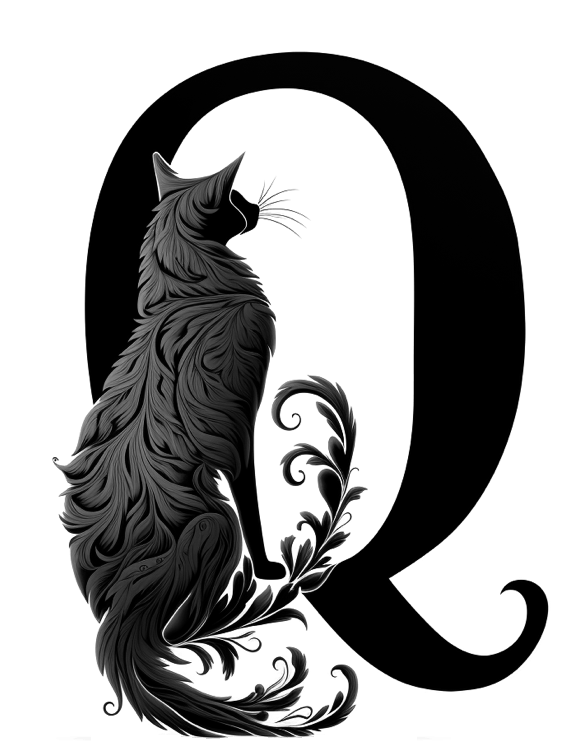
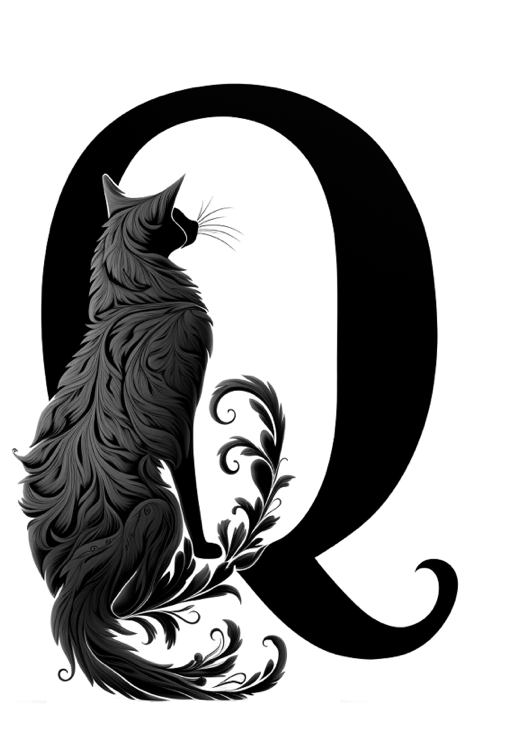
Adjustments to dropcats (general, Q light)

diff --git a/js/head-GENERATED.js b/js/head-GENERATED.js
@@ -3716,24 +3716,24 @@ GW.assetVersions = {
 	"/static/font/drop-cap/dropcat/light/Q-1-small-2x.png": "1698157852",
 	"/static/font/drop-cap/dropcat/light/Q-10-small-1x.png": "1698162541",
 	"/static/font/drop-cap/dropcat/light/Q-10-small-2x.png": "1698162541",
-	"/static/font/drop-cap/dropcat/light/Q-11-small-1x.png": "1698162542",
-	"/static/font/drop-cap/dropcat/light/Q-11-small-2x.png": "1698162541",
+	"/static/font/drop-cap/dropcat/light/Q-11-small-1x.png": "1698262535",
+	"/static/font/drop-cap/dropcat/light/Q-11-small-2x.png": "1698262535",
 	"/static/font/drop-cap/dropcat/light/Q-12-small-1x.png": "1698162542",
 	"/static/font/drop-cap/dropcat/light/Q-12-small-2x.png": "1698162542",
-	"/static/font/drop-cap/dropcat/light/Q-2-small-1x.png": "1698162542",
-	"/static/font/drop-cap/dropcat/light/Q-2-small-2x.png": "1698162542",
-	"/static/font/drop-cap/dropcat/light/Q-3-small-1x.png": "1698162540",
-	"/static/font/drop-cap/dropcat/light/Q-3-small-2x.png": "1698162542",
+	"/static/font/drop-cap/dropcat/light/Q-2-small-1x.png": "1698263646",
+	"/static/font/drop-cap/dropcat/light/Q-2-small-2x.png": "1698263646",
+	"/static/font/drop-cap/dropcat/light/Q-3-small-1x.png": "1698262535",
+	"/static/font/drop-cap/dropcat/light/Q-3-small-2x.png": "1698262535",
 	"/static/font/drop-cap/dropcat/light/Q-4-small-1x.png": "1698162541",
 	"/static/font/drop-cap/dropcat/light/Q-4-small-2x.png": "1698162541",
-	"/static/font/drop-cap/dropcat/light/Q-5-small-1x.png": "1698162541",
-	"/static/font/drop-cap/dropcat/light/Q-5-small-2x.png": "1698162541",
-	"/static/font/drop-cap/dropcat/light/Q-6-small-1x.png": "1698162782",
-	"/static/font/drop-cap/dropcat/light/Q-6-small-2x.png": "1698162782",
-	"/static/font/drop-cap/dropcat/light/Q-7-small-1x.png": "1698162541",
-	"/static/font/drop-cap/dropcat/light/Q-7-small-2x.png": "1698162541",
-	"/static/font/drop-cap/dropcat/light/Q-8-small-1x.png": "1698162541",
-	"/static/font/drop-cap/dropcat/light/Q-8-small-2x.png": "1698162541",
+	"/static/font/drop-cap/dropcat/light/Q-5-small-1x.png": "1698262535",
+	"/static/font/drop-cap/dropcat/light/Q-5-small-2x.png": "1698262535",
+	"/static/font/drop-cap/dropcat/light/Q-6-small-1x.png": "1698262535",
+	"/static/font/drop-cap/dropcat/light/Q-6-small-2x.png": "1698262535",
+	"/static/font/drop-cap/dropcat/light/Q-7-small-1x.png": "1698263646",
+	"/static/font/drop-cap/dropcat/light/Q-7-small-2x.png": "1698263646",
+	"/static/font/drop-cap/dropcat/light/Q-8-small-1x.png": "1698262535",
+	"/static/font/drop-cap/dropcat/light/Q-8-small-2x.png": "1698262535",
 	"/static/font/drop-cap/dropcat/light/Q-9-small-1x.png": "1698162541",
 	"/static/font/drop-cap/dropcat/light/Q-9-small-2x.png": "1698162541",
 	"/static/font/drop-cap/dropcat/light/T-1-small-1x.png": "1698156177",

diff --git a/js/asset-versions-GENERATED.js b/js/asset-versions-GENERATED.js
@@ -150,24 +150,24 @@ GW.assetVersions = {
 	"/static/font/drop-cap/dropcat/light/Q-1-small-2x.png": "1698157852",
 	"/static/font/drop-cap/dropcat/light/Q-10-small-1x.png": "1698162541",
 	"/static/font/drop-cap/dropcat/light/Q-10-small-2x.png": "1698162541",
-	"/static/font/drop-cap/dropcat/light/Q-11-small-1x.png": "1698162542",
-	"/static/font/drop-cap/dropcat/light/Q-11-small-2x.png": "1698162541",
+	"/static/font/drop-cap/dropcat/light/Q-11-small-1x.png": "1698262535",
+	"/static/font/drop-cap/dropcat/light/Q-11-small-2x.png": "1698262535",
 	"/static/font/drop-cap/dropcat/light/Q-12-small-1x.png": "1698162542",
 	"/static/font/drop-cap/dropcat/light/Q-12-small-2x.png": "1698162542",
-	"/static/font/drop-cap/dropcat/light/Q-2-small-1x.png": "1698162542",
-	"/static/font/drop-cap/dropcat/light/Q-2-small-2x.png": "1698162542",
-	"/static/font/drop-cap/dropcat/light/Q-3-small-1x.png": "1698162540",
-	"/static/font/drop-cap/dropcat/light/Q-3-small-2x.png": "1698162542",
+	"/static/font/drop-cap/dropcat/light/Q-2-small-1x.png": "1698263646",
+	"/static/font/drop-cap/dropcat/light/Q-2-small-2x.png": "1698263646",
+	"/static/font/drop-cap/dropcat/light/Q-3-small-1x.png": "1698262535",
+	"/static/font/drop-cap/dropcat/light/Q-3-small-2x.png": "1698262535",
 	"/static/font/drop-cap/dropcat/light/Q-4-small-1x.png": "1698162541",
 	"/static/font/drop-cap/dropcat/light/Q-4-small-2x.png": "1698162541",
-	"/static/font/drop-cap/dropcat/light/Q-5-small-1x.png": "1698162541",
-	"/static/font/drop-cap/dropcat/light/Q-5-small-2x.png": "1698162541",
-	"/static/font/drop-cap/dropcat/light/Q-6-small-1x.png": "1698162782",
-	"/static/font/drop-cap/dropcat/light/Q-6-small-2x.png": "1698162782",
-	"/static/font/drop-cap/dropcat/light/Q-7-small-1x.png": "1698162541",
-	"/static/font/drop-cap/dropcat/light/Q-7-small-2x.png": "1698162541",
-	"/static/font/drop-cap/dropcat/light/Q-8-small-1x.png": "1698162541",
-	"/static/font/drop-cap/dropcat/light/Q-8-small-2x.png": "1698162541",
+	"/static/font/drop-cap/dropcat/light/Q-5-small-1x.png": "1698262535",
+	"/static/font/drop-cap/dropcat/light/Q-5-small-2x.png": "1698262535",
+	"/static/font/drop-cap/dropcat/light/Q-6-small-1x.png": "1698262535",
+	"/static/font/drop-cap/dropcat/light/Q-6-small-2x.png": "1698262535",
+	"/static/font/drop-cap/dropcat/light/Q-7-small-1x.png": "1698263646",
+	"/static/font/drop-cap/dropcat/light/Q-7-small-2x.png": "1698263646",
+	"/static/font/drop-cap/dropcat/light/Q-8-small-1x.png": "1698262535",
+	"/static/font/drop-cap/dropcat/light/Q-8-small-2x.png": "1698262535",
 	"/static/font/drop-cap/dropcat/light/Q-9-small-1x.png": "1698162541",
 	"/static/font/drop-cap/dropcat/light/Q-9-small-2x.png": "1698162541",
 	"/static/font/drop-cap/dropcat/light/T-1-small-1x.png": "1698156177",

diff --git a/include/inlined-head.html b/include/inlined-head.html
@@ -911,6 +911,6 @@ a[data-link-icon-type*='svg'] .link-icon-hook::after {
 	background-color: var(--GW-wikipedia-image-background-color);
 }
 </style>
-<link rel="stylesheet" href="/static/css/head.css?v=1698208234">
-<script src="/static/js/head.js?v=1698208234"></script>
+<link rel="stylesheet" href="/static/css/head.css?v=1698263740">
+<script src="/static/js/head.js?v=1698263739"></script>
 <link rel="preload" href="/static/img/icon/icons.svg?v=1698021605" as="image">

diff --git a/include/inlined-asset-links.html b/include/inlined-asset-links.html
@@ -1,2 +1,2 @@
-<link rel="stylesheet" href="/static/css/style.css?v=1698208234" media="print" onload="this.media=`all`">
-<script src="/static/js/script.js?v=1698208234" defer></script>
+<link rel="stylesheet" href="/static/css/style.css?v=1698263740" media="print" onload="this.media=`all`">
+<script src="/static/js/script.js?v=1698263740" defer></script>

diff --git a/css/default.css b/css/default.css
@@ -2096,7 +2096,7 @@ del {
 		float: left;
 		display: block;
 		height: 9.4em;
-		margin: -0.25em -0.10em -0.85em -0.75em;
+		margin: -0.25em -0.10em -0.95em -0.75em;
 		filter: none;
 	}
 }

diff --git a/css/style-GENERATED.css b/css/style-GENERATED.css
@@ -3159,7 +3159,7 @@ del {
 		float: left;
 		display: block;
 		height: 9.4em;
-		margin: -0.25em -0.10em -0.85em -0.75em;
+		margin: -0.25em -0.10em -0.95em -0.75em;
 		filter: none;
 	}
 }

diff --git a/css/style-VERSIONED.css b/css/style-VERSIONED.css
@@ -3159,7 +3159,7 @@ del {
 		float: left;
 		display: block;
 		height: 9.4em;
-		margin: -0.25em -0.10em -0.85em -0.75em;
+		margin: -0.25em -0.10em -0.95em -0.75em;
 		filter: none;
 	}
 }
